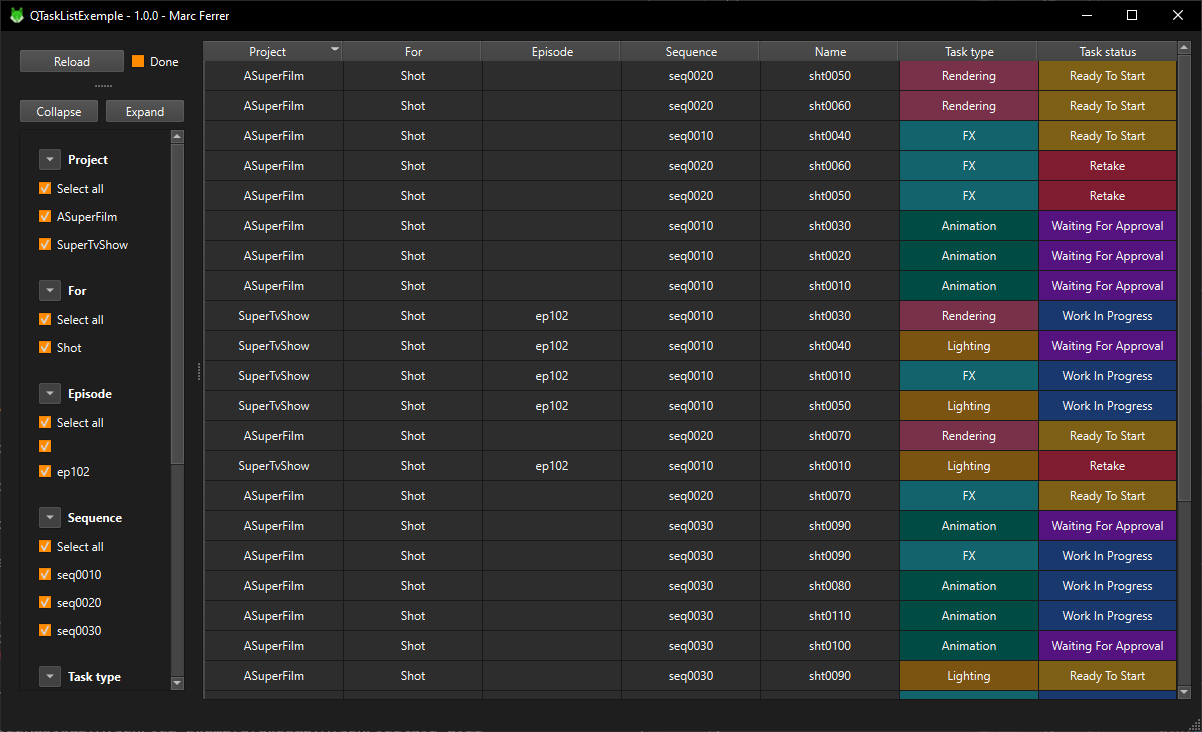
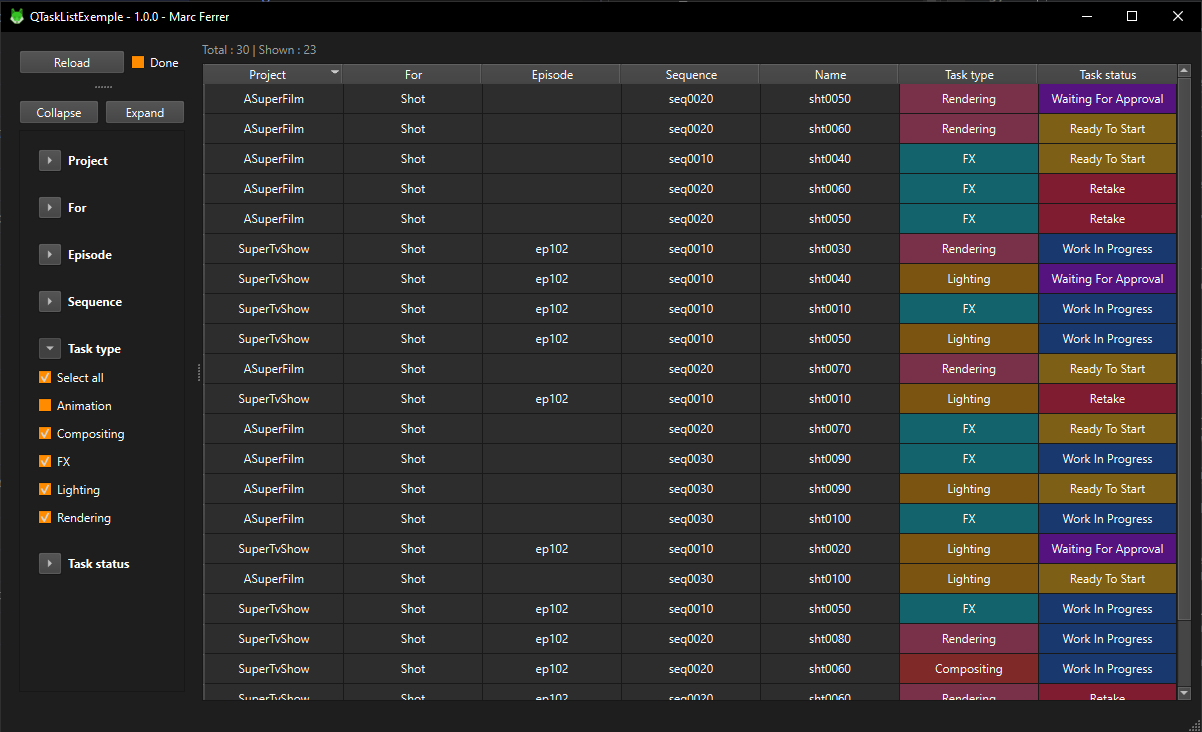
show total and shwon tasks

diff --git a/src/widgets/task_browser.cpp b/src/widgets/task_browser.cpp
@@ -5,6 +5,7 @@
 #include <QList>
 #include <Qt>
 #include <QHBoxLayout>
+#include <QVBoxLayout>
 #include <QSizePolicy>
 #include <QJsonDocument>
 #include <QJsonArray>
@@ -44,25 +45,44 @@ TaskBrowser::TaskBrowser(QWidget* parent)
     m_taskFilter->setSizePolicy(QSizePolicy::Preferred, QSizePolicy::MinimumExpanding);
 
     // TaskList, display the tasks in a form of a list.
+    m_taskResumeLabel = new QLabel(this);
+    m_taskResumeLabel->setText("Total : 0 | Shown : 0");
+    m_taskResumeLabel->setDisabled(true);
     m_taskModel = new TaskTableModel(&m_taskList, this);
-    m_taskTable = new TaskTable(m_mainSplitter);
+    m_taskTable = new TaskTable(this);
     m_filterProxy = new TaskTableFilterProxy(&m_taskFilter->currentFilter, this);
     m_taskTable->setModel(m_taskModel);
     m_taskTable->setSizePolicy(QSizePolicy::Expanding, QSizePolicy::Expanding);
     m_filterProxy->setSourceModel(m_taskModel);
     m_taskTable->setModel(m_filterProxy);
 
+    m_tableWidget = new QWidget(this);
+    m_tableLayout = new QVBoxLayout(m_tableWidget);
+    m_tableLayout->setContentsMargins(0,0,0,0);
+    m_tableLayout->addWidget(m_taskResumeLabel);
+    m_tableLayout->addWidget(m_taskTable);
+    m_mainSplitter->addWidget(m_tableWidget);
+
     // Set the stretch factors for the splitters
     m_mainSplitter->setStretchFactor(1, 1);
 
     // Set disabled on tasks loading started.
-    connect(m_TaskLoader, &TaskLoader::ReloadStarted, this, [this]() {setDisabled(true);});
+    connect(m_TaskLoader,
+        &TaskLoader::ReloadStarted,
+        this,
+        [this]() {setDisabled(true);});
 
     // Set enabled on tasks loading finished.
-    connect(m_TaskLoader, &TaskLoader::ReloadFinished, this, [this]() {setEnabled(true);});
+    connect(m_TaskLoader,
+        &TaskLoader::ReloadFinished,
+        this,
+        [this]() {setEnabled(true);});
 
     // On tasks available create the task list to pass to the filter and the view.
-    connect(m_TaskLoader, SIGNAL(TasksAvailable(QJsonArray)), this, SLOT(m_HandleAvailableTasks(QJsonArray)));
+    connect(m_TaskLoader, 
+        SIGNAL(TasksAvailable(QJsonArray)),
+        this,
+        SLOT(m_HandleAvailableTasks(QJsonArray)));
 
     // On task list ready, send pointer to filter.
     connect(this,
@@ -81,6 +101,17 @@ TaskBrowser::TaskBrowser(QWidget* parent)
         SIGNAL(SelectedFiltersChanged(TaskUtils::FilterMap*)),
         m_filterProxy,
         SLOT(RefreshFilter()));
+
+    // On filter updated by user, refresh task resume label, aswell as on model reset.
+    connect(m_taskModel,
+        SIGNAL(modelReset()),
+        this,
+        SLOT(m_UpdateResumeLabel()));
+
+    connect(m_taskFilter,
+        SIGNAL(SelectedFiltersChanged(TaskUtils::FilterMap*)),
+        this,
+        SLOT(m_UpdateResumeLabel()));
 }
 
 // Transform data into object, and emit pointer to task list when done for filter and the view to use the objects.
@@ -92,4 +123,13 @@ void TaskBrowser::m_HandleAvailableTasks(QJsonArray tasksData)
         m_taskList.emplaceBack(item.toObject());
     }
     emit TaskListReady(&m_taskList);
+};
+
+// Update resume label with current info.
+void TaskBrowser::m_UpdateResumeLabel()
+{
+    m_taskResumeLabel->setText("Total : " + 
+           QString::number(m_taskList.size()) +
+           " | Shown : " +
+           QString::number(m_filterProxy->rowCount()));
 };

diff --git a/src/widgets/task_browser.h b/src/widgets/task_browser.h
@@ -28,6 +28,9 @@ private:
     TaskTable* m_taskTable;
     TaskTableModel* m_taskModel;
     TaskTableFilterProxy* m_filterProxy;
+    QVBoxLayout* m_tableLayout;
+    QLabel* m_taskResumeLabel;
+    QWidget* m_tableWidget;
     TaskUtils::TaskList m_taskList;
 
 signals:
@@ -35,6 +38,7 @@ signals:
 
 private slots:
     void m_HandleAvailableTasks(QJsonArray tasksData);
+    void m_UpdateResumeLabel();
 };
 
 #endif // TASK_BROSWER_H

diff --git a/src/widgets/connection_dialog.cpp b/src/widgets/connection_dialog.cpp
@@ -50,6 +50,11 @@ ConnectionDialog::ConnectionDialog(QWidget* parent) : QDialog(parent)
 
 	setMinimumWidth(400);
 
+	// TO REMOVE
+	m_kitsuApiUrlLineEdit->setText("http://172.19.80.178");
+	m_mailLineEdit->setText("iammarcferrer@gmail.com");
+	m_passwordLineEdit->setText("password");
+
 	// Connections
 
 	// Attempt connection on click.

diff --git a/README.md b/README.md
@@ -11,7 +11,7 @@ It uses [QTaskList](https://github.com/Elsombrerobot/QTaskList) as a submodule f
 - Heavy use of Qt framework, including network requests.
 - Open a task in kitsu.
 
-# Screenshots and videos
+# Screenshots
 - Connection box
 
 ![alt text](doc/images/kitsu_connection_box.png)
